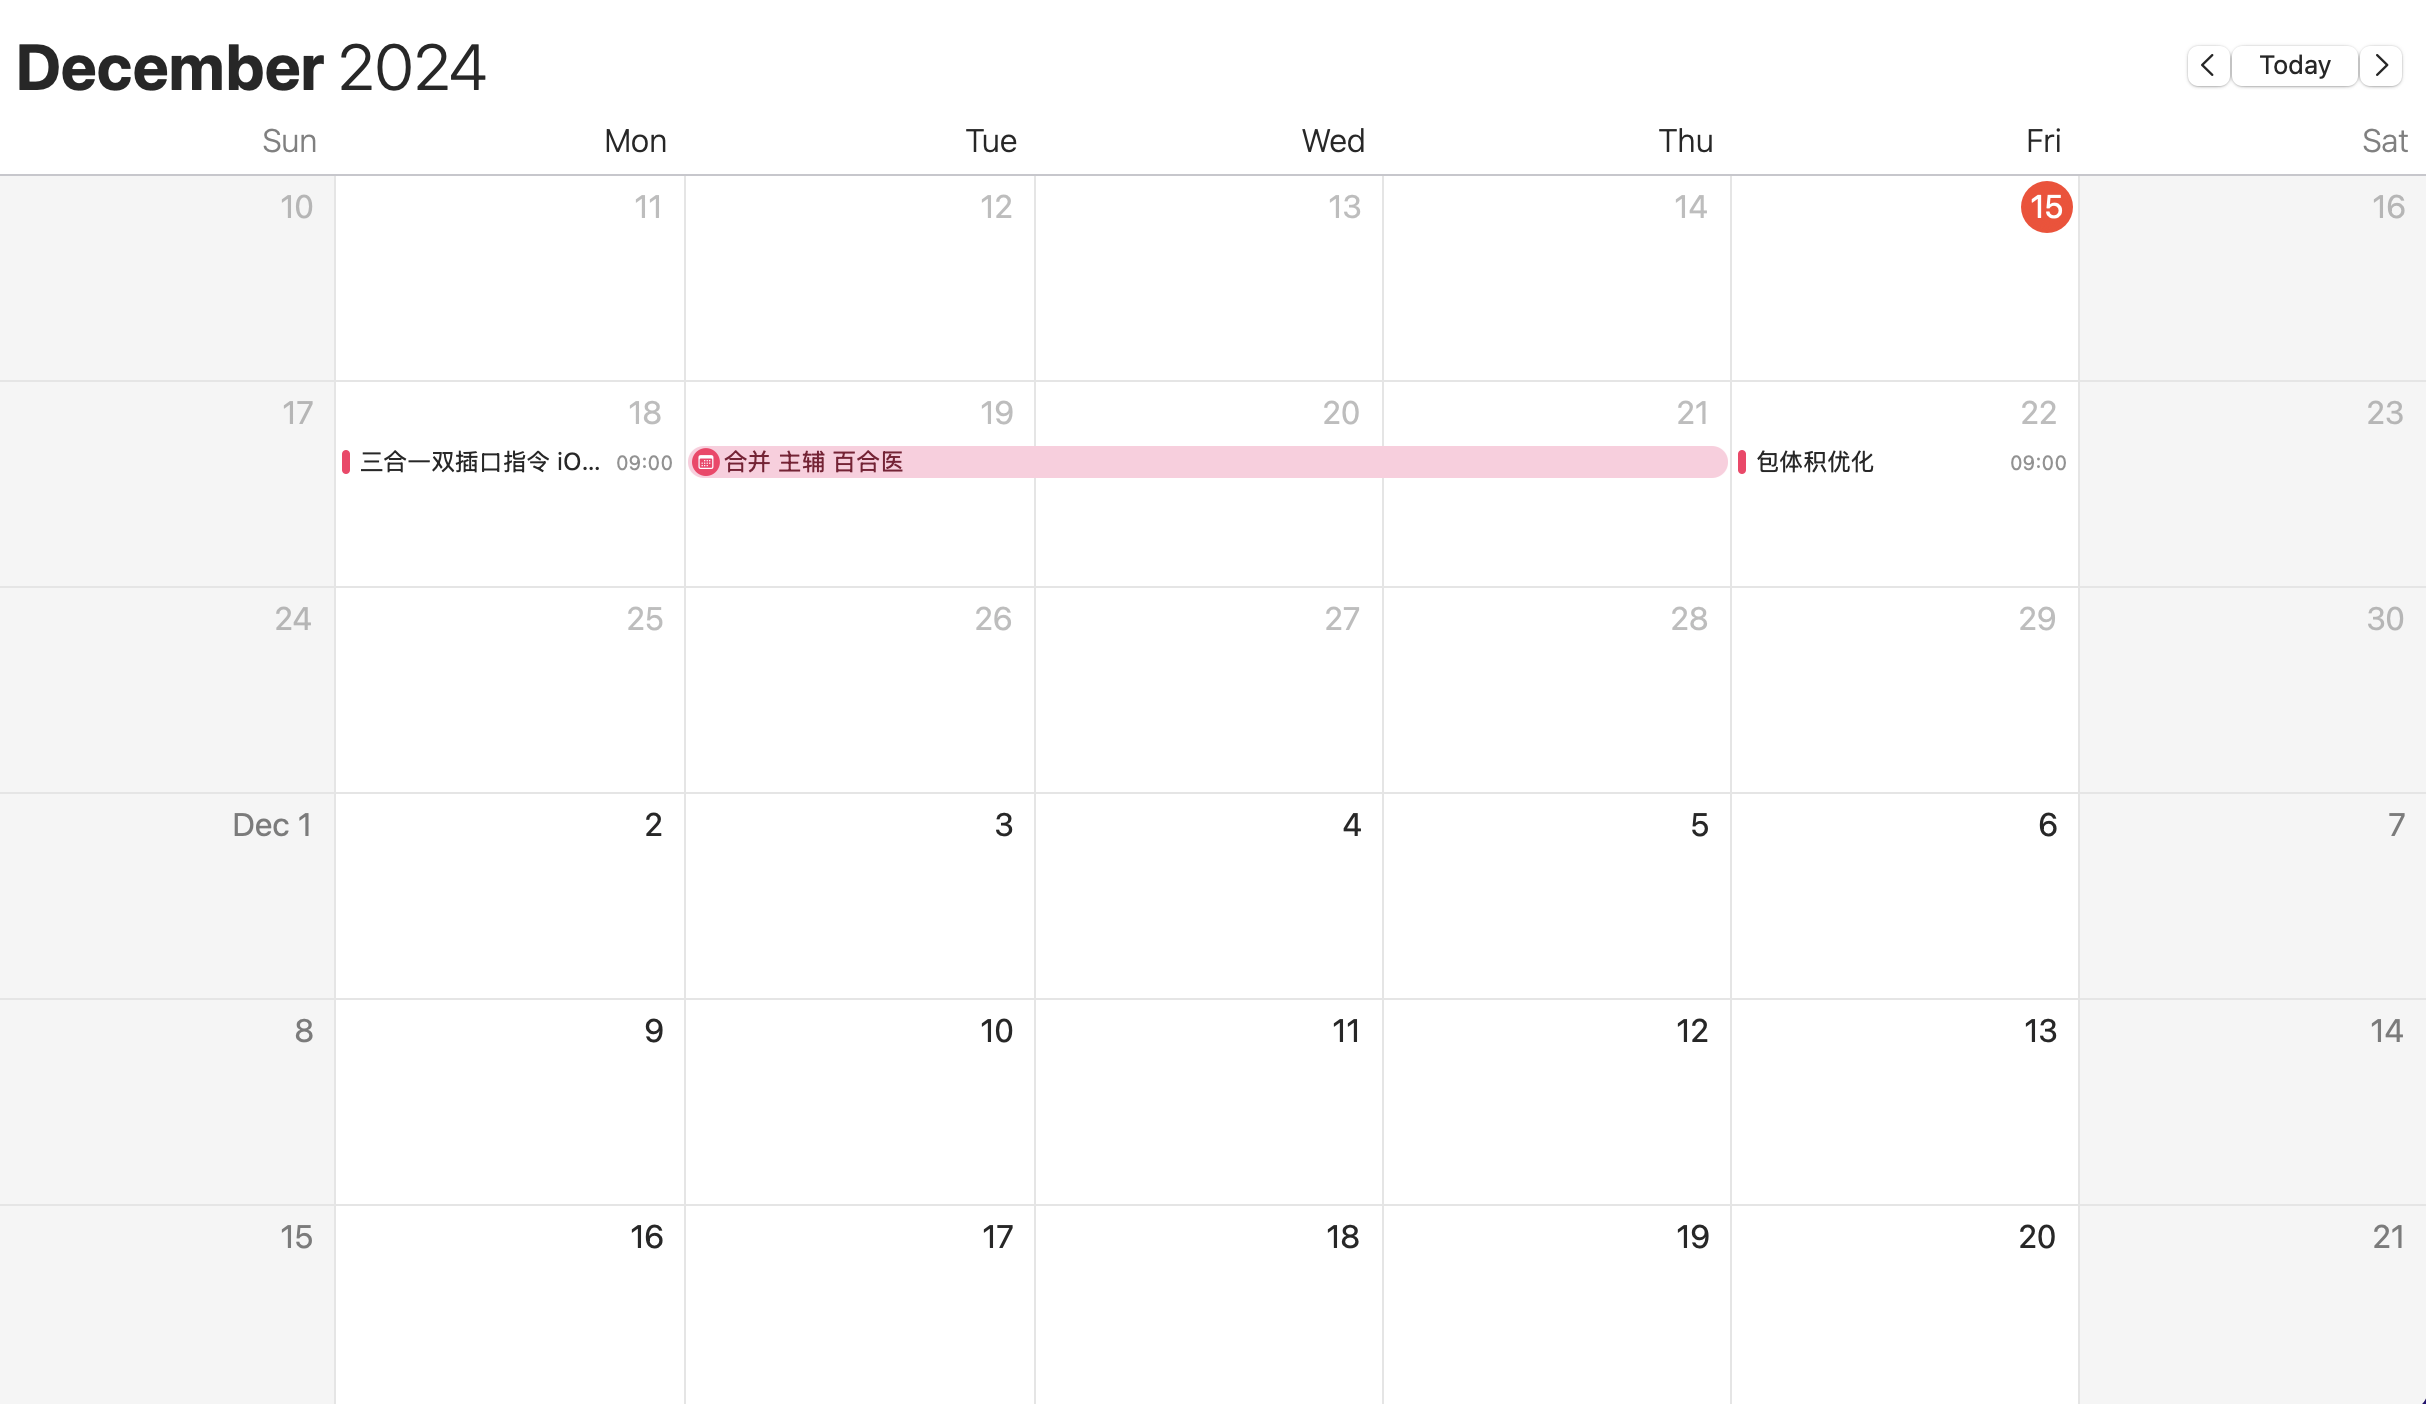
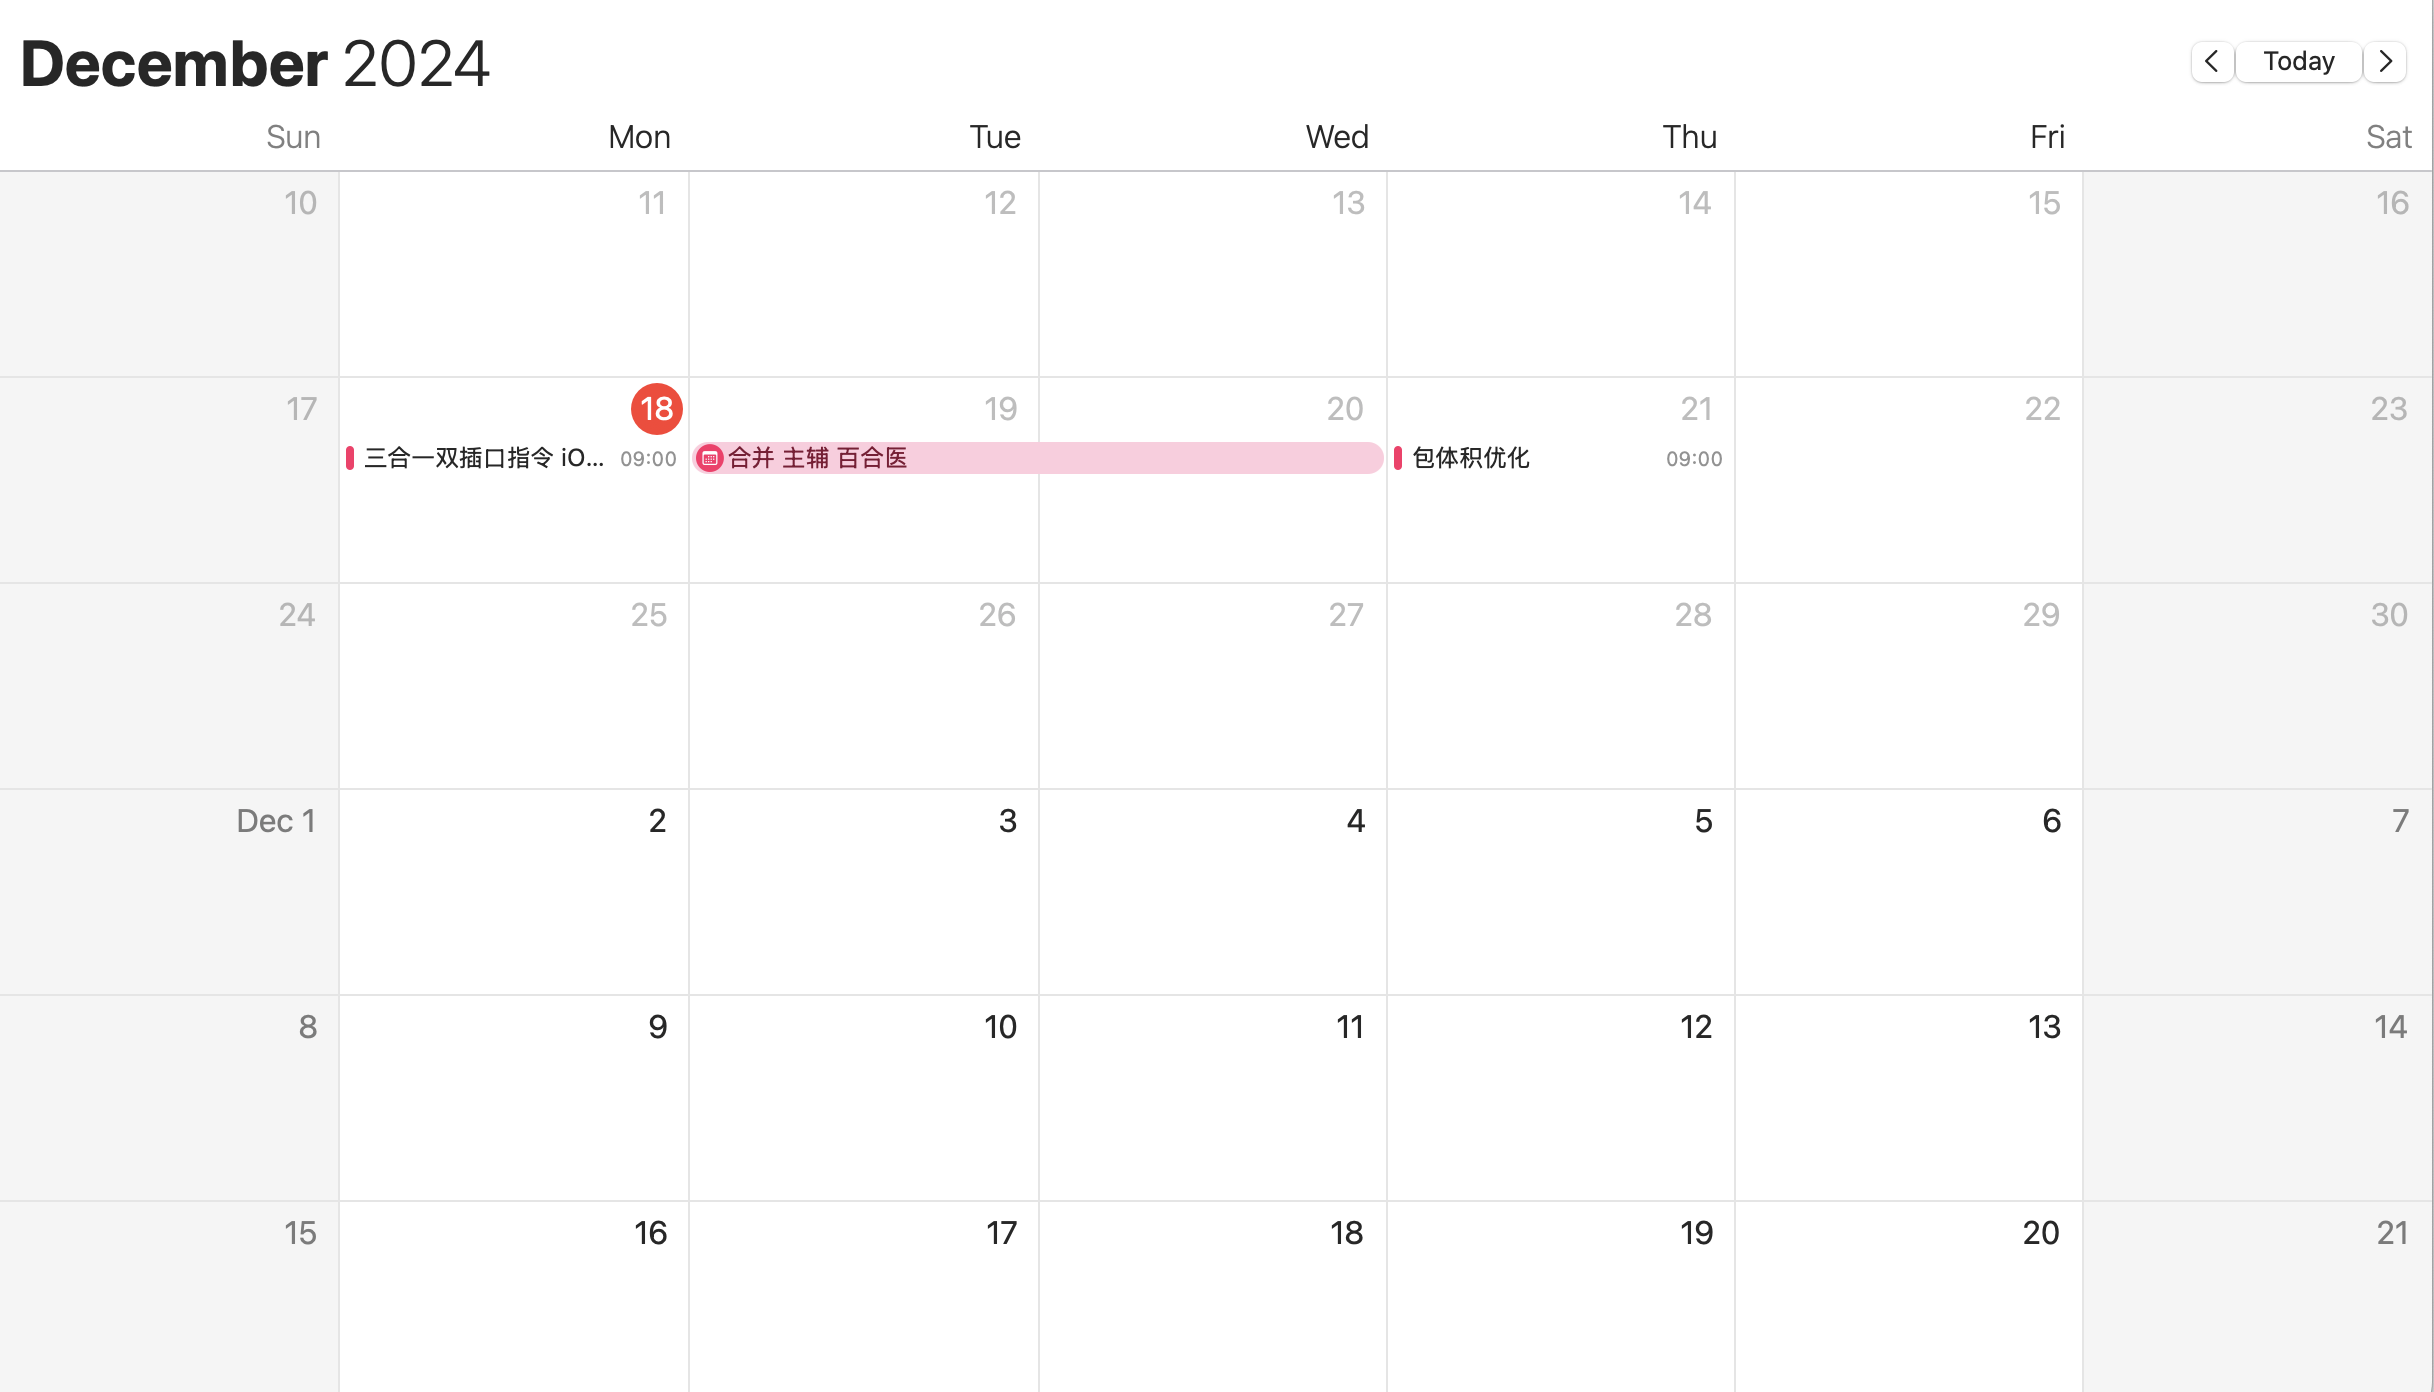
update docs

diff --git a/src/datas/tasks.ts b/src/datas/tasks.ts
@@ -178,7 +178,7 @@ let _24_10: Task[] = [
 let _24_11: Task[] = [
   {
     start: new Date(2024, 10, 18),
-    end: new Date(2024, 10, 23),
+    end: new Date(2024, 10, 22),
     name: '11月份计划',
     id: 'project',
     type:'project',
@@ -197,7 +197,7 @@ let _24_11: Task[] = [
     styles: { progressColor: '#ffbb54', progressSelectedColor: '#ff9e0d', backgroundColor: "#FFB6C1"},
   },{
     start: new Date(2024, 10, 19),
-    end: new Date(2024, 10, 22),
+    end: new Date(2024, 10, 21),
     name: '合并百合医',
     id: 'task-0',
     project: 'project',
@@ -206,8 +206,8 @@ let _24_11: Task[] = [
     isDisabled: true,
     styles: { progressColor: '#ffbb54', progressSelectedColor: '#ff9e0d', backgroundColor: "red"},
   },{
-    start: new Date(2024, 10, 22),
-    end: new Date(2024, 10, 23),
+    start: new Date(2024, 10, 21),
+    end: new Date(2024, 10, 22),
     name: '包体积优化',
     id: 'task-0',
     project: 'project',

diff --git a/docs/inner/pms/pm_24_11.md b/docs/inner/pms/pm_24_11.md
@@ -22,52 +22,9 @@ import Tag from '@site/src/components/Tag';
 
 
 
-### 百合医 合并
-
-
-#### 现状分析
-
-目前百合医分为两个版本:
-1. 目前正常迭代版本 (业务版本)  - 以下简称 **业务版**
-2. Yasee SDK 替换完毕的版本   -  以下简称 **新版**
-
-其中 **新版** 和 **业务版** 差别两个 迭代内容, 具体内容主要为:
-1. IM替换版本 
-2. 众测版本 
-
-其中 差异化 内容包含如下:
-- <Tag text="新增" color="#009ad6" />
-- <Tag text="删除" color="green" />
-- <Tag text="修改" color="gray" />
-
-![两个版本差异化分析](/img/inner/diff_new_old.png)
-
-
-
-欲合并冲突文件分析:
-- <Tag text="Dart" color="#009ad6" />
-- <Tag text="pbxproj" color="green" />
-- <Tag text="png" color="gray" />
-- <Tag text="svg" color="orange" />
-- <Tag text="xcscheme" color="red" />
-- <Tag text="yaml" color="#8552a1" />
-![欲合并冲突文件分析](/img/inner/diff_u.png)
-
-
-
-
-
-#### 原始记录信息
-- [main_expo 记录](/files/main_expo_log.log)
-- [最新版本 记录](/files/main_expo_log.log)
-
-
-
-
-
 **目前合并最新的版本到 新版中. 建议目前的新需求可先暂缓!**
 目前 替换工作计划如下:
-- 任务周期 **5天** 
+- 任务周期 **4天** 
 - 任务开始 **11月18号**
 
 
@@ -76,7 +33,7 @@ import Tag from '@site/src/components/Tag';
 
 
 ## 甘特计划
-- 总计 任务周期 **5** 天
+- 总计 任务周期 **4** 天
 <GanttTask year={24} month={11} />
 
 
